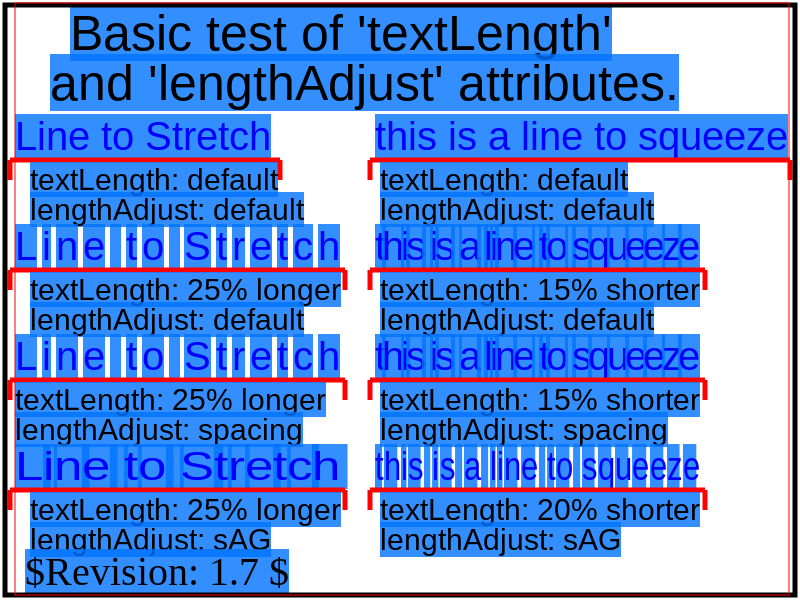
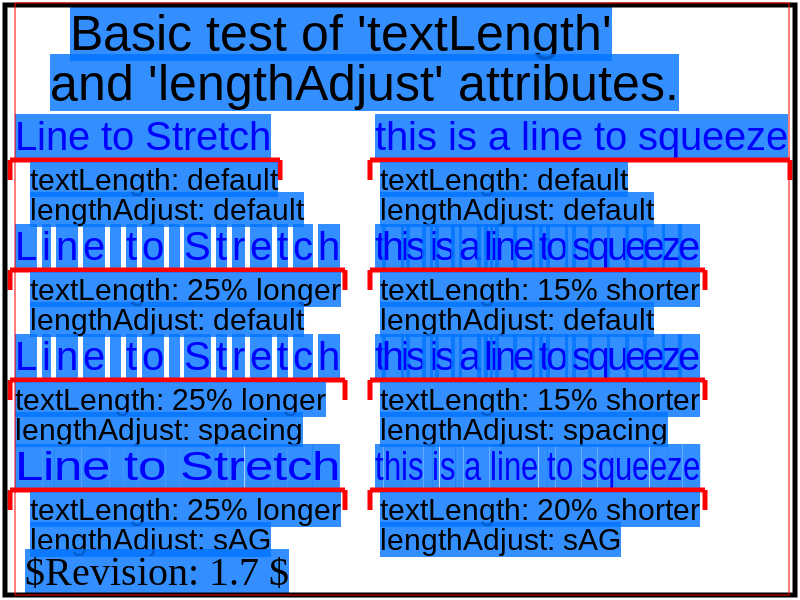
SVG Text NG: Fix selection painting for lengthAdjust=spacingAndGlyphs
Characters with lengthAdjust="spacingAndGlyphs" are stretched or
squeezed by an AffineTransform, and text selection background for them
are painted on the transformed GraphicsContext.  So
NGFragmentItem::LocalRect() should return a rectangle with the size
before stretching / squeezing.

Bug: 1179585
Commit-Queue: Kent Tamura <tkent@chromium.org>
Cr-Commit-Position: refs/heads/master@{#899430}
NOKEYCHECK=True
GitOrigin-RevId: bf7247b793170d780e4745a3f5b3cc3471ca67d9

diff --git a/blink/renderer/core/layout/ng/inline/ng_fragment_item.cc b/blink/renderer/core/layout/ng/inline/ng_fragment_item.cc
@@ -920,8 +920,14 @@ PhysicalRect NGFragmentItem::LocalRect(StringView text,
   LayoutUnit width = Size().width;
   LayoutUnit height = Size().height;
   if (Type() == kSvgText) {
-    width = LayoutUnit(SvgFragmentData()->rect.Size().Width());
-    height = LayoutUnit(SvgFragmentData()->rect.Size().Height());
+    const NGSvgFragmentData& data = *SvgFragmentData();
+    if (IsHorizontal()) {
+      width = LayoutUnit(data.rect.Size().Width() / data.length_adjust_scale);
+      height = LayoutUnit(data.rect.Size().Height());
+    } else {
+      width = LayoutUnit(data.rect.Size().Width());
+      height = LayoutUnit(data.rect.Size().Height() / data.length_adjust_scale);
+    }
   }
   if (start_offset == StartOffset() && end_offset == EndOffset()) {
     return {LayoutUnit(), LayoutUnit(), width, height};
